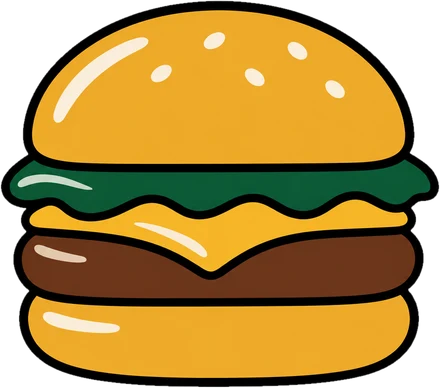
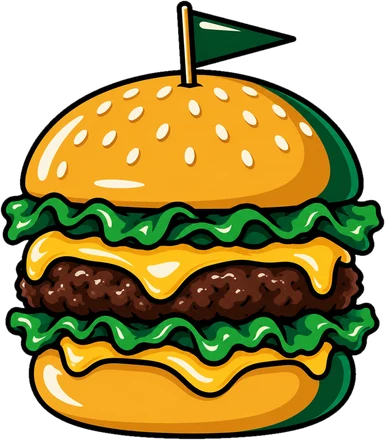
Happy hour, UFC and trivia calendar tiles; food drawings redone in the sports set style
- New Figma drawings in the sports set style (black outline, glossy cel
  shading, green crescent shadow, green/gold/cream): happy hour clock and
  pint, UFC title belt, trivia microphone, and the burger and wings redone
- Happy Hour tiles: clock and pint on copper-to-amber with halftone dots
- UFC tiles: title belt on black with a red edge and faint octagon
- Trivia and music bingo tiles: microphone drawing above the name

diff --git a/components/EventsCalendar.tsx b/components/EventsCalendar.tsx
@@ -138,8 +138,29 @@ function DayHeader({ date, isToday }: { date: string; isToday: boolean }) {
   );
 }
 
-const HAPPY_HOUR_BG = "#7A2E12"; // deep copper ale, so the gold in the beers drawing pops
 const isHappyHour = (item: Listing) => /happy hour/i.test(item.title);
+const isUFC = (item: Listing) => /\bUFC\b/i.test(item.title);
+const isTrivia = (item: Listing) => /trivia|bingo/i.test(item.title);
+
+// Happy Hour: copper ale fading to amber, with the brand deck's halftone dots
+const HAPPY_HOUR_STYLE = {
+  backgroundColor: "#8A3A14",
+  backgroundImage:
+    "radial-gradient(rgba(242,176,53,0.22) 1.2px, transparent 1.6px), linear-gradient(160deg, #6E2610 0%, #A3501A 100%)",
+  backgroundSize: "9px 9px, 100% 100%",
+} as const;
+
+// Fight night: a faint octagon behind the belt
+function Octagon() {
+  return (
+    <svg aria-hidden="true" viewBox="0 0 100 100" className="absolute inset-0 m-auto h-[85%] w-auto text-white/10 pointer-events-none">
+      <polygon points="30,3 70,3 97,30 97,70 70,97 30,97 3,70 3,30" fill="none" stroke="currentColor" strokeWidth="3" />
+    </svg>
+  );
+}
+
+// eslint-disable-next-line @next/next/no-img-element
+const Drawing = ({ name, h = "h-14" }: { name: string; h?: string }) => <img src={`/decor/${name}.webp`} alt="" className={`${h} w-auto mx-auto relative`} />;
 
 function Logo({ src, name, size = 28 }: { src?: string; name: string; size?: number }) {
   if (!src) return <span className="text-white text-[11px] font-semibold">{name}</span>;
@@ -157,7 +178,9 @@ function Tile({ item, bookHref }: { item: Listing; date: string; bookHref: strin
   const team = "team" in item ? item.team : undefined;
   const m = "matchup" in item ? item.matchup : undefined;
   const happy = isHappyHour(item);
-  const bg = happy ? HAPPY_HOUR_BG : team?.color;
+  const ufc = !happy && isUFC(item);
+  const trivia = !happy && !ufc && isTrivia(item);
+  const style = happy ? HAPPY_HOUR_STYLE : ufc ? { backgroundColor: "#101010" } : team?.color ? { backgroundColor: team.color } : undefined;
   const info = "info" in item ? item.info : "about" in item ? item.about : undefined;
   const text =
     info ??
@@ -165,10 +188,12 @@ function Tile({ item, bookHref }: { item: Listing; date: string; bookHref: strin
       ? "On the big screens with the sound on. Grab your crew and a table and catch every play."
       : happy
         ? "Drink and food specials to kick off the night. See the Happy Hour menu for what's on."
-        : undefined);
+        : ufc
+          ? "Every fight on the big screens with the sound on. Get here early for a good seat."
+          : undefined);
 
   return (
-    <li className={`p-3 ${bg ? "" : "bg-white/[0.07]"}`} style={bg ? { backgroundColor: bg } : undefined}>
+    <li className={`relative p-3 ${ufc ? "border-l-4 border-[#C8102E]" : ""} ${style ? "" : "bg-white/[0.07]"}`} style={style}>
       <div className="flex items-start justify-between gap-2">
         <p className="font-text text-white/85 text-xs uppercase tracking-[0.04em]">{item.time ?? ""}</p>
         <a
@@ -183,9 +208,21 @@ function Tile({ item, bookHref }: { item: Listing; date: string; bookHref: strin
       <div className="mt-2">
         {happy ? (
           <>
-            {/* eslint-disable-next-line @next/next/no-img-element */}
-            <img src="/decor/beers.webp" alt="" className="h-14 w-auto mx-auto" />
+            <Drawing name="happy-hour" h="h-16" />
             <span className="sr-only">{item.title}</span>
+          </>
+        ) : ufc ? (
+          <div className="relative">
+            <Octagon />
+            <Drawing name="title-belt" h="h-12" />
+            <p className="relative mt-1 text-center text-white uppercase tracking-[0.08em] text-sm font-bold" style={{ fontFamily: "var(--font-label)" }}>
+              {item.title}
+            </p>
+          </div>
+        ) : trivia ? (
+          <>
+            <Drawing name="microphone" />
+            <p className="mt-1 text-center text-white text-xs font-semibold leading-snug">{item.title}</p>
           </>
         ) : m ? (
           <>

diff --git a/components/Decor.tsx b/components/Decor.tsx
@@ -20,7 +20,10 @@ export type DecorName =
   | "mma-gloves"
   | "baseball-bat"
   | "burger"
-  | "wings";
+  | "wings"
+  | "microphone"
+  | "happy-hour"
+  | "title-belt";
 
 // width / height of each trimmed drawing in public/decor
 const ASPECT: Record<DecorName, number> = {
@@ -34,8 +37,11 @@ const ASPECT: Record<DecorName, number> = {
   "foam-finger": 248 / 440,
   "mma-gloves": 415 / 440,
   "baseball-bat": 440 / 282,
-  burger: 440 / 388,
-  wings: 440 / 332,
+  burger: 385 / 440,
+  wings: 440 / 312,
+  microphone: 361 / 440,
+  "happy-hour": 440 / 410,
+  "title-belt": 440 / 258,
 };
 
 export interface DecorSpot {
